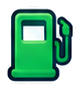
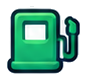
Rovant 1.1: mascota Rovi, ícono nuevo, stickers e inicio rediseñado
Claude-Session: https://claude.ai/code/session_01MvdxUnRtWmNF4aih38eizB

diff --git a/lib/screens/inicio_screen.dart b/lib/screens/inicio_screen.dart
@@ -1,5 +1,3 @@
-import 'dart:math';
-
 import 'package:flutter/material.dart';
 import 'package:geolocator/geolocator.dart';
 import 'package:provider/provider.dart';
@@ -9,21 +7,30 @@ import '../theme.dart';
 import '../widgets/comunes.dart';
 import 'home_shell.dart';
 
-/// Pantalla de inicio (onboarding).
+/// Pantalla de inicio con Rovi, la mascota de Rovant.
 class InicioScreen extends StatefulWidget {
   const InicioScreen({super.key});
   @override
   State<InicioScreen> createState() => _InicioScreenState();
 }
 
-class _InicioScreenState extends State<InicioScreen> {
+class _InicioScreenState extends State<InicioScreen> with SingleTickerProviderStateMixin {
   bool _cargando = false;
+  late final AnimationController _flotar =
+      AnimationController(vsync: this, duration: const Duration(milliseconds: 1800))
+        ..repeat(reverse: true);
+
+  @override
+  void dispose() {
+    _flotar.dispose();
+    super.dispose();
+  }
 
   Future<void> _comenzar() async {
     setState(() => _cargando = true);
     try {
-      var p = await Geolocator.checkPermission();
-      if (p == LocationPermission.denied) p = await Geolocator.requestPermission();
+      final p = await Geolocator.checkPermission();
+      if (p == LocationPermission.denied) await Geolocator.requestPermission();
     } catch (_) {}
     if (!mounted) return;
     context.read<AjustesStore>().marcarOnboarding();
@@ -35,29 +42,43 @@ class _InicioScreenState extends State<InicioScreen> {
   Widget build(BuildContext context) {
     final c = context.rs;
     return Scaffold(
-      body: Stack(children: [
-        Positioned.fill(child: CustomPaint(painter: _Paisaje(c.oscuro))),
-        SafeArea(
+      body: Container(
+        decoration: BoxDecoration(
+          gradient: LinearGradient(
+            begin: Alignment.topCenter,
+            end: Alignment.bottomCenter,
+            colors: c.oscuro
+                ? const [Color(0xFF0D1015), Color(0xFF13213A), Color(0xFF0D1015)]
+                : const [Color(0xFFF8FBFF), Color(0xFFCFE0FB), Color(0xFFEEF3FB)],
+          ),
+        ),
+        child: SafeArea(
           child: Padding(
             padding: const EdgeInsets.symmetric(horizontal: 24),
             child: Column(children: [
               const Spacer(flex: 2),
-              Image.asset('assets/icono.png', width: 96, height: 96),
+              AnimatedBuilder(
+                animation: _flotar,
+                builder: (_, child) => Transform.translate(
+                    offset: Offset(0, -8 * Curves.easeInOut.transform(_flotar.value)),
+                    child: child),
+                child: Image.asset('assets/mascota.png', height: 230),
+              ),
               const SizedBox(height: 18),
-              const LogoRovant(alto: 52, forzarBlanco: true),
+              const LogoRovant(alto: 52),
               const SizedBox(height: 10),
-              const Text('Tu camino, más seguro',
-                  style: TextStyle(
-                      color: Colors.white, fontSize: 17, fontWeight: FontWeight.w500)),
-              const SizedBox(height: 6),
+              Text('Tu camino, más simple',
+                  style: TextStyle(color: c.texto, fontSize: 17, fontWeight: FontWeight.w600)),
+              const SizedBox(height: 4),
               Text('Reporta lo que pasa en la vía con tu voz',
-                  style: TextStyle(color: Colors.white.withValues(alpha: 0.75), fontSize: 13)),
-              const Spacer(flex: 3),
+                  style: TextStyle(color: c.texto2, fontSize: 13)),
+              const Spacer(flex: 2),
               Container(
                 padding: const EdgeInsets.symmetric(vertical: 16),
                 decoration: BoxDecoration(
-                  color: c.superficie.withValues(alpha: c.oscuro ? 0.85 : 0.95),
+                  color: c.superficie.withValues(alpha: 0.9),
                   borderRadius: BorderRadius.circular(RS.r20),
+                  border: Border.all(color: c.borde),
                 ),
                 child: const Row(children: [
                   _Rasgo(Icons.near_me_rounded, 'Navegación\ninteligente'),
@@ -71,12 +92,12 @@ class _InicioScreenState extends State<InicioScreen> {
                   icono: Icons.arrow_forward_rounded,
                   cargando: _cargando,
                   onTap: _comenzar),
-              const SizedBox(height: 14),
+              const SizedBox(height: 10),
               TextButton(
                 onPressed: _comenzar,
                 child: Text('Iniciar sesión',
                     style: TextStyle(
-                        color: c.oscuro ? Colors.white : c.texto,
+                        color: c.texto,
                         decoration: TextDecoration.underline,
                         fontWeight: FontWeight.w600)),
               ),
@@ -84,7 +105,7 @@ class _InicioScreenState extends State<InicioScreen> {
             ]),
           ),
         ),
-      ]),
+      ),
     );
   }
 }
@@ -96,82 +117,11 @@ class _Rasgo extends StatelessWidget {
   @override
   Widget build(BuildContext context) => Expanded(
         child: Column(children: [
-          Icon(icono, color: RS.dorado, size: 26),
+          Icon(icono, color: context.rs.accion, size: 26),
           const SizedBox(height: 6),
           Text(texto,
               textAlign: TextAlign.center,
               style: TextStyle(fontSize: 12, color: context.rs.texto2, height: 1.3)),
         ]),
       );
-}
-
-/// Fondo ilustrado: cielo, montañas y carretera con línea central dorada.
-class _Paisaje extends CustomPainter {
-  _Paisaje(this.oscuro);
-  final bool oscuro;
-
-  @override
-  void paint(Canvas canvas, Size s) {
-    final r = Offset.zero & s;
-    canvas.drawRect(
-        r,
-        Paint()
-          ..shader = LinearGradient(
-            begin: Alignment.topCenter,
-            end: Alignment.bottomCenter,
-            colors: oscuro
-                ? const [Color(0xFF0D1015), Color(0xFF2A2318), Color(0xFF6B4A22)]
-                : const [Color(0xFF7FB2E6), Color(0xFFB9D6F0), Color(0xFFF2D9A6)],
-          ).createShader(r));
-
-    void montes(double base, double amp, Color col, int semilla) {
-      final rnd = Random(semilla);
-      final p = Path()..moveTo(0, s.height * base);
-      for (var x = 0.0; x <= s.width; x += s.width / 6) {
-        p.lineTo(x, s.height * (base - amp * (0.4 + rnd.nextDouble() * 0.6)));
-      }
-      p
-        ..lineTo(s.width, s.height)
-        ..lineTo(0, s.height)
-        ..close();
-      canvas.drawPath(p, Paint()..color = col);
-    }
-
-    montes(0.52, 0.16, oscuro ? const Color(0xFF1E1A16) : const Color(0xFF8DA7C4), 3);
-    montes(0.60, 0.10, oscuro ? const Color(0xFF15130F) : const Color(0xFF5E7F63), 7);
-
-    // Carretera en perspectiva
-    final cx = s.width / 2;
-    final top = s.height * 0.55;
-    final road = Path()
-      ..moveTo(cx - 6, top)
-      ..quadraticBezierTo(cx + 60, s.height * 0.72, cx - s.width * 0.7, s.height)
-      ..lineTo(cx + s.width * 0.55, s.height)
-      ..quadraticBezierTo(cx + 120, s.height * 0.72, cx + 6, top)
-      ..close();
-    canvas.drawPath(road, Paint()..color = oscuro ? const Color(0xFF1B1D22) : const Color(0xFF55606E));
-    final linea = Path()
-      ..moveTo(cx, top)
-      ..quadraticBezierTo(cx + 90, s.height * 0.72, cx - s.width * 0.08, s.height);
-    canvas.drawPath(
-        linea,
-        Paint()
-          ..color = RS.dorado
-          ..style = PaintingStyle.stroke
-          ..strokeWidth = 3
-          ..maskFilter = const MaskFilter.blur(BlurStyle.solid, 3));
-
-    // Velo para que el texto se lea bien
-    canvas.drawRect(
-        r,
-        Paint()
-          ..shader = LinearGradient(
-            begin: Alignment.topCenter,
-            end: Alignment.bottomCenter,
-            colors: [Colors.black.withValues(alpha: 0.35), Colors.transparent, Colors.black.withValues(alpha: 0.45)],
-          ).createShader(r));
-  }
-
-  @override
-  bool shouldRepaint(covariant _Paisaje old) => old.oscuro != oscuro;
 }

diff --git a/lib/screens/mapa_screen.dart b/lib/screens/mapa_screen.dart
@@ -217,6 +217,7 @@ class _MapaScreenState extends State<MapaScreen> {
 
     if (esUltimo && dp < 30) {
       if (aj.vozNavegacion) Voz.instancia.decir('Llegaste a tu destino');
+      avisoRovi(context, '¡Llegaste a tu destino!', sticker: 'bandera');
       _cancelarRuta();
       return;
     }
@@ -281,7 +282,7 @@ class _MapaScreenState extends State<MapaScreen> {
   void _publicar(Reporte r) {
     _alertados.add(r.id); // no te alertes de tu propio reporte
     _store.agregar(r);
-    _aviso('¡Reporte enviado! Gracias por cuidar la vía.');
+    avisoRovi(context, '¡Reporte enviado! Gracias por cuidar la vía.', sticker: 'celebra');
   }
 
   Future<void> _elegirDestino(LatLng p) async {
@@ -541,8 +542,8 @@ class _MiMarcador extends StatelessWidget {
             shape: BoxShape.circle, color: c.accion.withValues(alpha: 0.18)),
       ),
       Transform.rotate(
-        angle: rumbo * pi / 180,
-        child: Image.asset('assets/vehiculos/$vehiculo.png', height: 54,
+        angle: vehiculo == 'rovi' ? 0 : rumbo * pi / 180,
+        child: Image.asset('assets/vehiculos/$vehiculo.png', height: vehiculo == 'rovi' ? 58 : 54,
             errorBuilder: (_, __, ___) =>
                 Icon(Icons.navigation_rounded, color: c.accion, size: 40)),
       ),
@@ -866,12 +867,16 @@ class _BuscarSheetState extends State<_BuscarSheet> {
                   ? Center(
                       child: Padding(
                         padding: const EdgeInsets.all(24),
-                        child: Text(
+                        child: Column(mainAxisSize: MainAxisSize.min, children: [
+                          const Sticker('mapa', alto: 110),
+                          const SizedBox(height: 10),
+                          Text(
                             _guardando != null
                                 ? 'Busca la dirección y tócala para guardarla como ${_guardando == 'casa' ? 'Casa' : 'Trabajo'}.'
                                 : 'Escribe y presiona buscar, o usa un atajo.\nTambién puedes mantener presionado el mapa para elegir un destino.',
                             textAlign: TextAlign.center,
                             style: TextStyle(color: c.texto2)),
+                        ]),
                       ),
                     )
                   : ListView.separated(

diff --git a/lib/data/stores.dart b/lib/data/stores.dart
@@ -29,9 +29,9 @@ class AjustesStore extends ChangeNotifier {
   int radioAlerta = 400; // metros
   String nombre = 'Conductor';
   bool onboardingVisto = false;
-  String avatar = 'assets/personajes/azul.png';
+  String avatar = 'assets/personajes/hola.png';
   /// Vehículo que se ve en el mapa (assets/vehiculos/<nombre>.png).
-  String vehiculo = 'carro';
+  String vehiculo = 'rovi';
   final Map<String, String> _lugares = {}; // casa / trabajo -> "lat|lng|nombre"
 
   Future<void> load() async {
@@ -42,9 +42,9 @@ class AjustesStore extends ChangeNotifier {
     vozNavegacion = _p.getBool('vozNavegacion') ?? true;
     radioAlerta = _p.getInt('radioAlerta') ?? 400;
     nombre = _p.getString('nombre') ?? 'Conductor';
-    onboardingVisto = _p.getBool('onboardingVisto') ?? false;
-    avatar = _p.getString('avatar') ?? avatar;
-    vehiculo = _p.getString('vehiculo') ?? vehiculo;
+    onboardingVisto = _p.getBool('onboarding2') ?? false;
+    avatar = _p.getString('avatar2') ?? avatar;
+    vehiculo = _p.getString('vehiculo2') ?? vehiculo;
     for (final k in const ['casa', 'trabajo']) {
       final v = _p.getString('lugar_$k');
       if (v != null) _lugares[k] = v;
@@ -89,13 +89,13 @@ class AjustesStore extends ChangeNotifier {
 
   void setAvatar(String a) {
     avatar = a;
-    _p.setString('avatar', a);
+    _p.setString('avatar2', a);
     notifyListeners();
   }
 
   void setVehiculo(String v) {
     vehiculo = v;
-    _p.setString('vehiculo', v);
+    _p.setString('vehiculo2', v);
     notifyListeners();
   }
 
@@ -121,7 +121,7 @@ class AjustesStore extends ChangeNotifier {
 
   void marcarOnboarding() {
     onboardingVisto = true;
-    _p.setBool('onboardingVisto', true);
+    _p.setBool('onboarding2', true);
     notifyListeners();
   }
 }

diff --git a/lib/screens/config_screen.dart b/lib/screens/config_screen.dart
@@ -64,7 +64,7 @@ class ConfigScreen extends StatelessWidget {
         _Grupo(children: [
           _Fila(
             icono: Icons.directions_car_rounded,
-            texto: 'Tu vehículo en el mapa',
+            texto: 'Cómo te ves en el mapa',
             trailing: Row(mainAxisSize: MainAxisSize.min, children: [
               Image.asset('assets/vehiculos/${aj.vehiculo}.png', height: 30),
               Icon(Icons.chevron_right_rounded, color: c.texto3),
@@ -139,7 +139,7 @@ class ConfigScreen extends StatelessWidget {
         const SizedBox(height: 24),
         const Center(child: LogoRovant(alto: 26)),
         const SizedBox(height: 6),
-        Center(child: Text('Versión 1.0.0', style: TextStyle(color: c.texto3, fontSize: 12))),
+        Center(child: Text('Versión 1.1.0', style: TextStyle(color: c.texto3, fontSize: 12))),
       ]),
     );
   }
@@ -176,6 +176,7 @@ class ConfigScreen extends StatelessWidget {
 
   void _elegirVehiculo(BuildContext context, AjustesStore aj) {
     const opciones = [
+      ('rovi', 'Rovi'),
       ('carro', 'Carro'),
       ('moto', 'Moto'),
       ('taxi', 'Taxi'),

diff --git a/lib/widgets/comunes.dart b/lib/widgets/comunes.dart
@@ -21,6 +21,29 @@ class LogoRovant extends StatelessWidget {
   }
 }
 
+/// Sticker de Rovi, la mascota (assets/stickers/<nombre>.png).
+class Sticker extends StatelessWidget {
+  const Sticker(this.nombre, {super.key, this.alto = 120});
+  final String nombre;
+  final double alto;
+  @override
+  Widget build(BuildContext context) => Image.asset('assets/stickers/$nombre.png',
+      height: alto, fit: BoxFit.contain, errorBuilder: (_, __, ___) => SizedBox(height: alto));
+}
+
+/// Mensaje flotante con un sticker de Rovi.
+void avisoRovi(BuildContext context, String texto, {String sticker = 'pulgar'}) {
+  ScaffoldMessenger.of(context)
+    ..hideCurrentSnackBar()
+    ..showSnackBar(SnackBar(
+      content: Row(children: [
+        Sticker(sticker, alto: 44),
+        const SizedBox(width: 12),
+        Expanded(child: Text(texto)),
+      ]),
+    ));
+}
+
 /// Botón principal en pastilla (degradado dorado en oscuro / azul en claro).
 class BotonPrincipal extends StatelessWidget {
   const BotonPrincipal(

diff --git a/lib/screens/reportes_screen.dart b/lib/screens/reportes_screen.dart
@@ -43,7 +43,7 @@ class _ReportesScreenState extends State<ReportesScreen> {
           child: lista.isEmpty
               ? Center(
                   child: Column(mainAxisSize: MainAxisSize.min, children: [
-                    Icon(Icons.inbox_rounded, size: 54, color: c.texto3),
+                    const Sticker('duda', alto: 120),
                     const SizedBox(height: 10),
                     Text('No hay reportes por aquí', style: TextStyle(color: c.texto2)),
                   ]),
